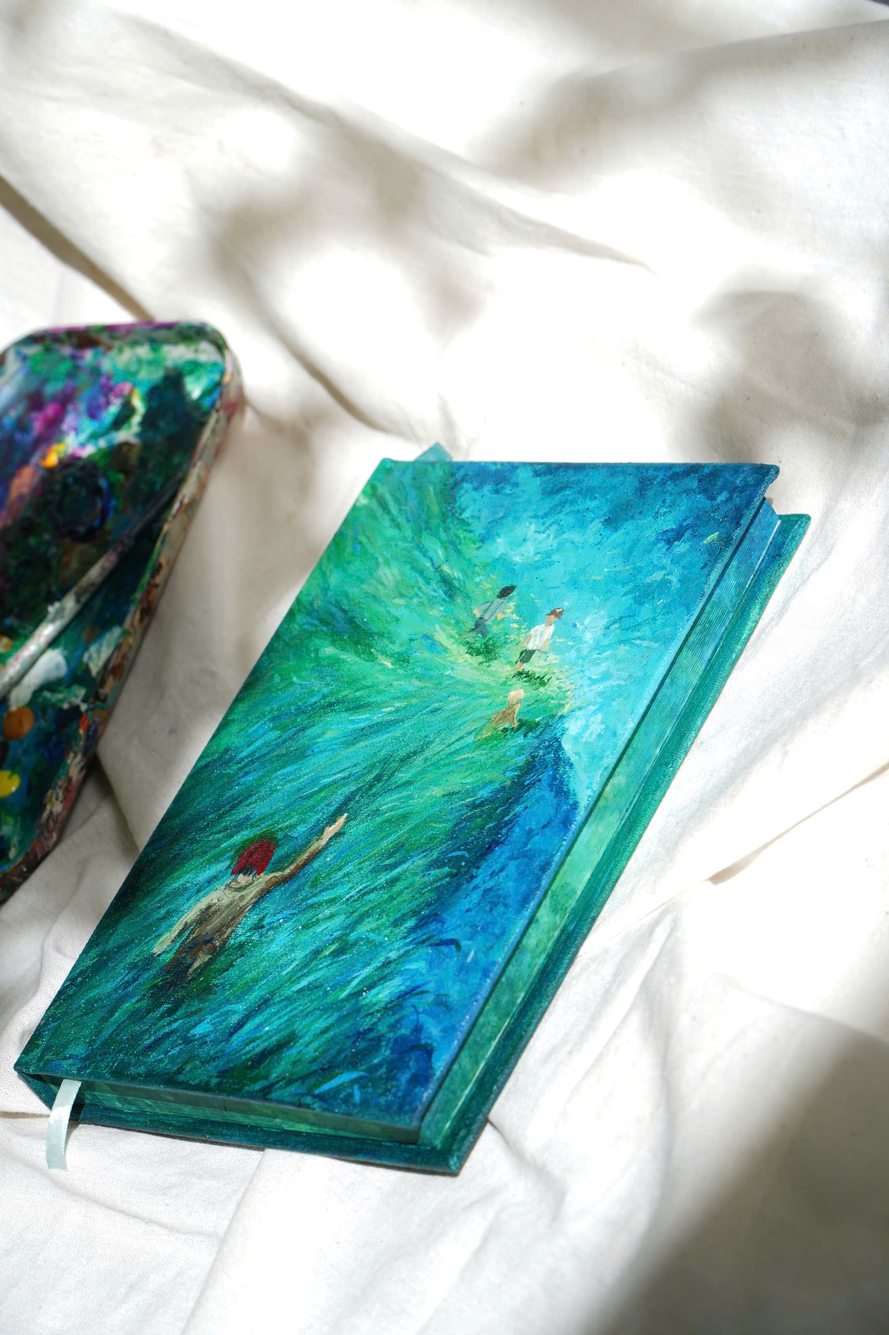
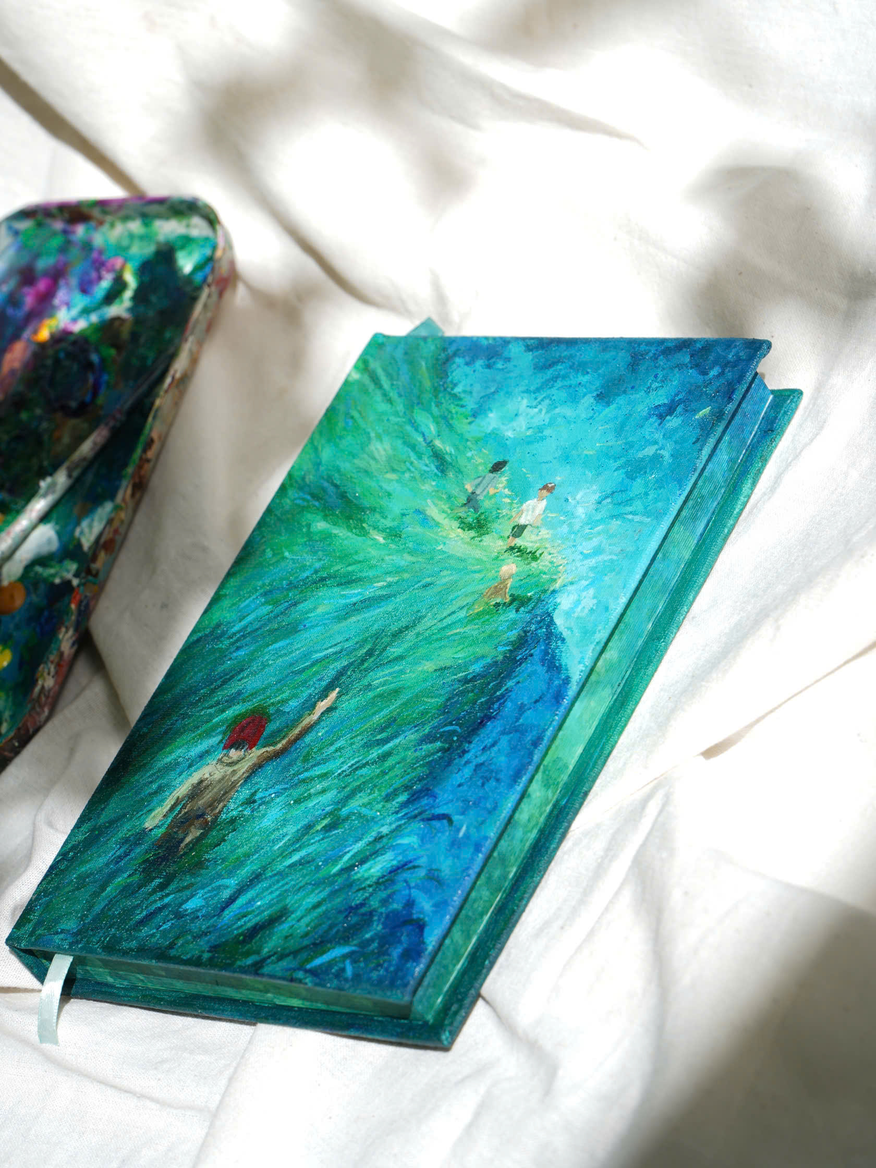
feat: crop j-d-salinger-the-catcher-in-the-rye img

diff --git a/.agents/skills/book-image-crop-safe/SKILL.md b/.agents/skills/book-image-crop-safe/SKILL.md
@@ -1,0 +1,72 @@
+---
+name: book-image-crop-safe
+description: Clone ảnh gốc với prefix bookId rồi crop toàn bộ thumbnail và gellery_imgs đang được website dùng trong một lượt. Dùng khi cần chuẩn hóa tỷ lệ ảnh cho từng bookId trong biacung.com mà vẫn giữ bản gốc ngay cạnh ảnh hiện tại.
+---
+
+# Book Image Crop Safe
+
+Xử lý đúng một `bookId` mỗi lần. Việc người dùng gọi skill với `bookId` là yêu cầu hoàn tất toàn bộ quy trình: clone ảnh gốc rồi crop tất cả ảnh mục tiêu trong cùng lượt. Không chờ người dùng confirm từng file hoặc từng framing.
+
+## Phạm vi
+
+- JSON: `data/book/<bookId>.json`.
+- Ảnh mục tiêu: `thumbnail` và `gellery_imgs` của edition được chọn.
+- Giữ nguyên cách viết `gellery_imgs` của schema.
+- Không sửa metadata, thứ tự gallery hoặc URL nếu basename ảnh đang dùng không đổi.
+- Nếu có nhiều edition mà chưa xác định được edition mục tiêu, dừng và hỏi lại.
+
+## Quy trình
+
+### 1. Kiểm tra đầu vào
+
+1. Xác nhận `bookId` chỉ gồm chữ thường, chữ số và dấu gạch ngang.
+2. Đọc toàn bộ JSON, kiểm tra trường `id` khớp và thu thập danh sách duy nhất theo thứ tự `thumbnail` rồi `gellery_imgs`.
+3. Xác nhận mọi ảnh tồn tại trong `assets/img/books/<bookId>/` và không phải URL remote.
+4. Xem trực tiếp tất cả ảnh; ghi nhận kích thước pixel, orientation/EXIF, codec và bố cục cần giữ.
+
+### 2. Clone ảnh gốc
+
+Với mỗi file đang được JSON tham chiếu, tạo một bản sao byte-for-byte ngay trong cùng thư mục với tên:
+
+`<bookId>_<basename-hiện-tại>`
+
+Ví dụ:
+
+`chauchaubook-back-cover.jpg` → `j-d-salinger-the-catcher-in-the-rye_chauchaubook-back-cover.jpg`
+
+Các quy tắc:
+
+- Bản có prefix `bookId` là bản gốc để người dùng tự backup; không crop và không đưa vào JSON.
+- File basename cũ, chẳng hạn `chauchaubook-back-cover.jpg`, tiếp tục là asset website và sẽ được crop.
+- Không ghi đè nếu file clone đích đã tồn tại; xem đó là backup đã được tạo ở lần chạy trước và dùng chính file clone làm nguồn khi cần crop lại.
+- Không xóa file clone tự động.
+
+### 3. Crop toàn bộ ảnh mục tiêu
+
+- Mặc định cho ảnh dọc ở `detail-focus-cover`: tỷ lệ `3:4`.
+- Với nguồn hiển thị đủ lớn, ưu tiên `1680 × 2240`.
+- Không upscale. Với ảnh nhỏ hơn, dùng crop `3:4` lớn nhất phù hợp.
+- Nếu ảnh đã là `3:4`, không crop chỉ để thay đổi kích thước.
+- Không ép ảnh ngang hoặc bố cục sẽ mất chủ thể về `3:4`; đề xuất ngoại lệ riêng.
+- Xử lý orientation khi tạo bản crop, nhưng file clone có prefix phải giữ nguyên dữ liệu gốc.
+- Chọn focal point riêng cho từng ảnh; không mặc định crop giữa hàng loạt.
+
+Thực hiện lần lượt cho mọi ảnh mục tiêu, không dừng sau từng file:
+
+1. Dùng bản clone `<bookId>_<basename>` làm nguồn để bản crop luôn xuất phát từ ảnh gốc.
+2. Chọn focal point riêng, tạo kết quả crop vào file tạm và xem trực tiếp.
+3. Nếu kết quả đúng orientation, kích thước và không mất chi tiết quan trọng, thay ngay file basename cũ mà website đang dùng.
+4. Nếu một ảnh thật sự không thể crop về tỷ lệ chung mà không phá bố cục, giữ nguyên riêng ảnh đó, tiếp tục các ảnh còn lại và báo rõ ngoại lệ ở cuối; không hỏi confirm cho các ảnh bình thường.
+5. Giữ nguyên URL trong JSON. Chỉ cập nhật JSON nếu người dùng yêu cầu đổi basename.
+6. Sau khi xử lý hết, xem lại toàn bộ ảnh và kiểm tra trang `detail-focus-cover` nếu có thể.
+
+## Hoàn tất
+
+Xác nhận:
+
+- Mỗi ảnh mục tiêu có đúng một bản clone `<bookId>_<basename>` chưa bị crop.
+- Các file basename cũ là ảnh crop đã được duyệt.
+- JSON parse thành công và mọi URL vẫn tồn tại.
+- Không có file ngoài book hiện tại bị thay đổi.
+
+Báo cáo ngắn gọn các file clone, crop thực tế của từng ảnh, file đã thay và kết quả kiểm tra. Không tự chuyển sang `bookId` tiếp theo.
